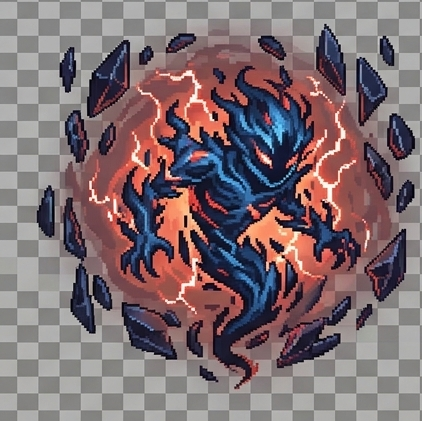
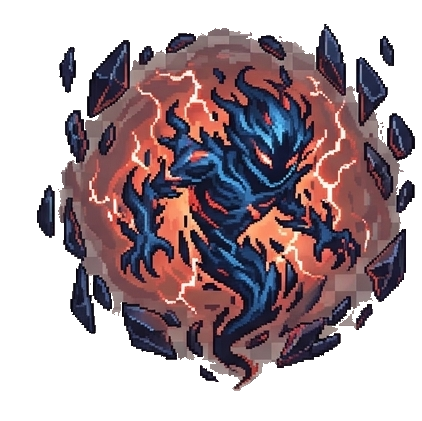
Fix Frost Mountains hotspot placement and frost_guardian's cutout
- Moved the mine/chamber/puzzle/boss/seal cluster onto the actual mine
  structure (timber rig, rails, arched signed entrance) on the right side
  of mountains.png, and the two gathering nodes onto the crystal-lined cave
  mouths — all were previously placed without reference to the art.
- frost_guardian.png still had its background: the crop only ran the
  alpha-bbox trim from crop-assets.ps1, not the second remove_bg.py pass
  that strips the fake gray checkerboard bosses.png bakes into RGB instead
  of using real alpha (same treatment procrastination.png already needed).
  Added it to remove_bg.py's IMAGES map and re-ran it in place.

diff --git a/components/world/MountainsScene.tsx b/components/world/MountainsScene.tsx
@@ -9,21 +9,24 @@ import { CombatOverlay } from "@/components/combat/CombatOverlay";
 import { Panel } from "@/components/ui/Panel";
 import type { GatheringNode, Interactable as InteractableType, Monster, Player } from "@/lib/game/types";
 
-// Hand-placed against assets/locations/mountains.png.
+// Hand-placed against assets/locations/mountains.png. The mine is the big
+// timber-rigged structure with rails and an arched, signed entrance on the
+// right side of the scene; the gathering nodes sit on the two crystal-lined
+// cave mouths bottom-left and top-left.
 const GATHER_POSITIONS: Record<string, { x: number; y: number }> = {
-  mountains_frost_iron_vein: { x: 35, y: 65 },
-  mountains_glacier_moss: { x: 15, y: 40 },
+  mountains_frost_iron_vein: { x: 8, y: 70 },
+  mountains_glacier_moss: { x: 32, y: 15 },
 };
 
 const INTERACTABLE_POSITIONS: Record<string, { x: number; y: number }> = {
-  mountains_mine_entrance: { x: 24, y: 52 },
-  mountains_chamber_entrance: { x: 58, y: 34 },
-  mountains_puzzle_rune_1: { x: 50, y: 42 },
-  mountains_puzzle_rune_2: { x: 66, y: 42 },
-  mountains_recover_second_seal: { x: 74, y: 22 },
+  mountains_mine_entrance: { x: 82, y: 27 },
+  mountains_chamber_entrance: { x: 90, y: 35 },
+  mountains_puzzle_rune_1: { x: 86, y: 43 },
+  mountains_puzzle_rune_2: { x: 93, y: 47 },
+  mountains_recover_second_seal: { x: 88, y: 49 },
 };
 
-const BOSS_POSITION = { x: 70, y: 25 };
+const BOSS_POSITION = { x: 88, y: 49 };
 
 export function MountainsScene({
   backgroundImage,

diff --git a/scripts/remove_bg.py b/scripts/remove_bg.py
@@ -164,6 +164,10 @@ IMAGES = {
         f"{ROOT}/public/assets/monsters/wild_ember.png",
         f"{ROOT}/public/assets/monsters/wild_ember.png",
     ),
+    "frost_guardian": (
+        f"{ROOT}/public/assets/monsters/frost_guardian.png",
+        f"{ROOT}/public/assets/monsters/frost_guardian.png",
+    ),
     "bramble_warden": (
         f"{ROOT}/public/assets/monsters/bramble_warden.png",
         f"{ROOT}/public/assets/monsters/bramble_warden.png",
